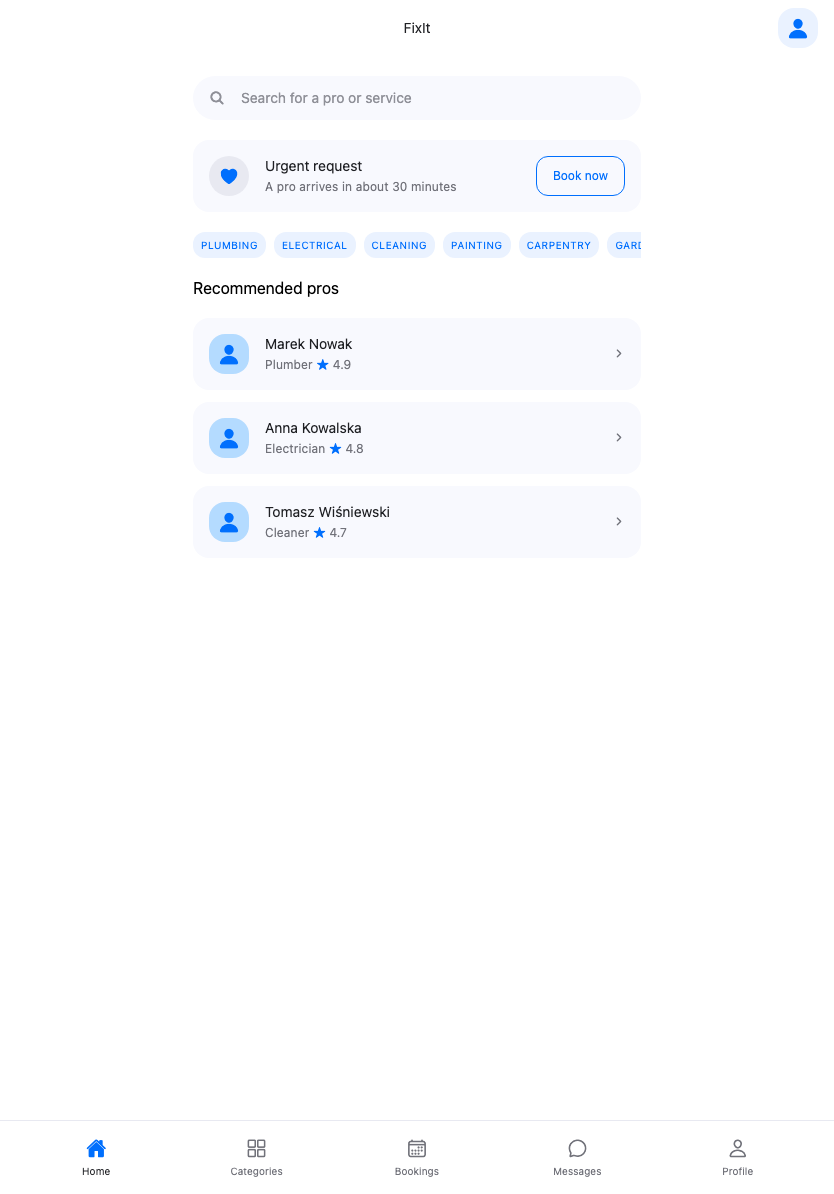
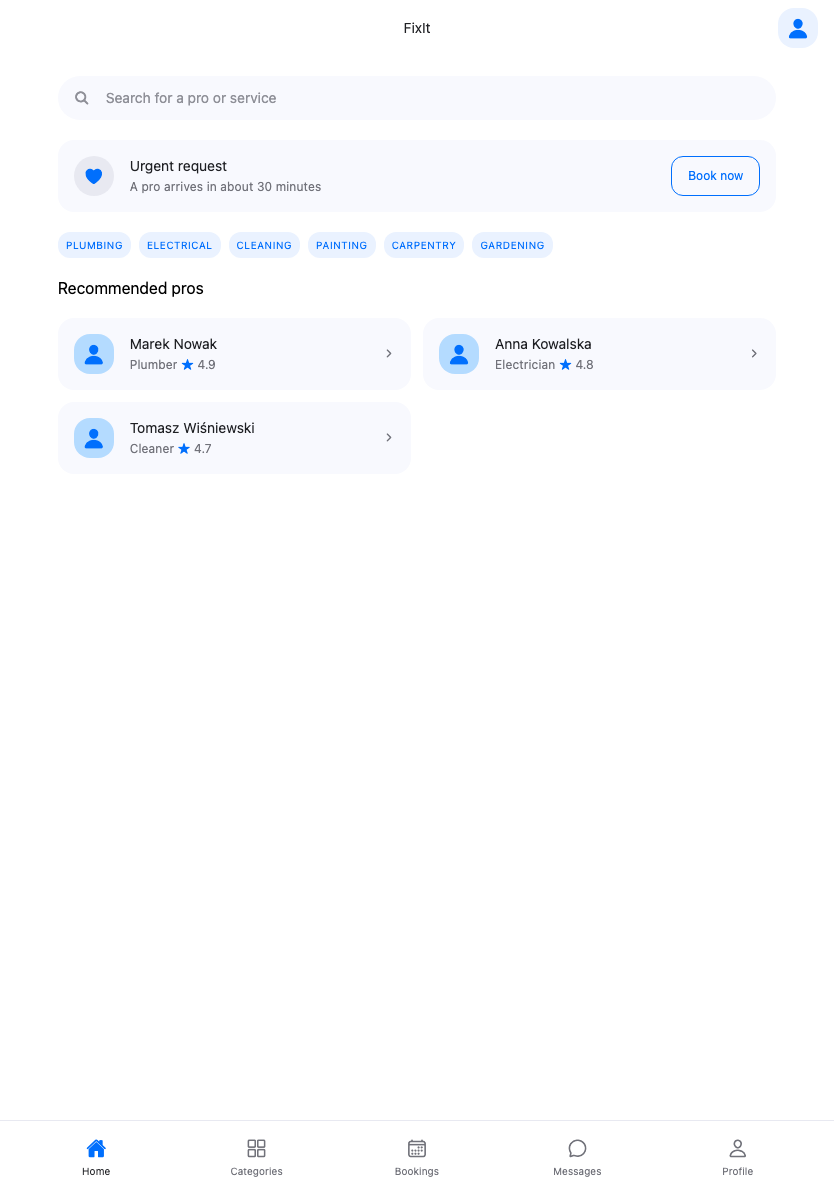
feat: reflow cards into a grid on wide screens
useResponsiveLayout centralizes the phone-vs-tablet math: past a 600dp
width breakpoint the content column widens and repeating cards
(ProCard, ListItem) reflow into a 2-column grid instead of a single
narrow column with unused margins either side.

diff --git a/src/screens/ProDetailsScreen.tsx b/src/screens/ProDetailsScreen.tsx
@@ -1,4 +1,4 @@
-import { ScrollView, StyleSheet, Text, View, useWindowDimensions } from 'react-native';
+import { ScrollView, StyleSheet, Text, View } from 'react-native';
 
 import { Avatar } from '@/components/Avatar';
 import { Button } from '@/components/Button';
@@ -8,13 +8,11 @@ import { ProCard } from '@/components/ProCard';
 import { StarRating } from '@/components/StarRating';
 import { Tag } from '@/components/Tag';
 import { pricingList, reviews } from '@/data/mockData';
+import { useResponsiveLayout } from '@/hooks/useResponsiveLayout';
 import { colors, spacing, typography } from '@/theme';
 
-const MAX_CONTENT_WIDTH = 480;
-
 export function ProDetailsScreen() {
-  const { width } = useWindowDimensions();
-  const contentWidth = Math.min(width, MAX_CONTENT_WIDTH);
+  const { contentWidth, cardWidth } = useResponsiveLayout();
 
   return (
     <View style={styles.screen}>
@@ -36,21 +34,20 @@ export function ProDetailsScreen() {
           </Text>
 
           <Text style={typography.sectionTitle}>Pricing</Text>
-          <View>
+          <View style={styles.grid}>
             {pricingList.map((item) => (
-              <ListItem key={item.id} title={item.title} subtitle={item.subtitle} />
+              <View key={item.id} style={{ width: cardWidth }}>
+                <ListItem title={item.title} subtitle={item.subtitle} />
+              </View>
             ))}
           </View>
 
           <Text style={typography.sectionTitle}>Reviews</Text>
-          <View style={styles.reviewList}>
+          <View style={styles.grid}>
             {reviews.map((review) => (
-              <ProCard
-                key={review.id}
-                name={review.name}
-                role={review.role}
-                rating={review.rating}
-              />
+              <View key={review.id} style={{ width: cardWidth }}>
+                <ProCard name={review.name} role={review.role} rating={review.rating} />
+              </View>
             ))}
           </View>
         </View>
@@ -87,7 +84,9 @@ const styles = StyleSheet.create({
   about: {
     color: colors.text,
   },
-  reviewList: {
+  grid: {
+    flexDirection: 'row',
+    flexWrap: 'wrap',
     gap: spacing.sm,
   },
   footer: {

diff --git a/src/screens/HomeScreen.tsx b/src/screens/HomeScreen.tsx
@@ -1,6 +1,6 @@
 import { Ionicons } from '@expo/vector-icons';
 import { useState } from 'react';
-import { ScrollView, StyleSheet, Text, View, useWindowDimensions } from 'react-native';
+import { ScrollView, StyleSheet, Text, View } from 'react-native';
 
 import { Avatar } from '@/components/Avatar';
 import { Button } from '@/components/Button';
@@ -9,16 +9,13 @@ import { Header } from '@/components/Header';
 import { ProCard } from '@/components/ProCard';
 import { SearchBar } from '@/components/SearchBar';
 import { categories, recommendedPros } from '@/data/mockData';
+import { useResponsiveLayout } from '@/hooks/useResponsiveLayout';
 import { colors, radii, spacing, typography } from '@/theme';
 
-/** Phones stay full-width; tablets/landscape get a centered reading column. */
-const MAX_CONTENT_WIDTH = 480;
-
 export function HomeScreen() {
-  const { width } = useWindowDimensions();
+  const { contentWidth, cardWidth } = useResponsiveLayout();
   const [query, setQuery] = useState('');
   const [selectedCategoryId, setSelectedCategoryId] = useState<string>();
-  const contentWidth = Math.min(width, MAX_CONTENT_WIDTH);
 
   return (
     <View style={styles.screen}>
@@ -53,15 +50,11 @@ export function HomeScreen() {
 
           <Text style={[typography.sectionTitle, styles.sectionTitle]}>Recommended pros</Text>
 
-          <View style={styles.proList}>
+          <View style={styles.grid}>
             {recommendedPros.map((pro) => (
-              <ProCard
-                key={pro.id}
-                name={pro.name}
-                role={pro.role}
-                rating={pro.rating}
-                onPress={() => {}}
-              />
+              <View key={pro.id} style={{ width: cardWidth }}>
+                <ProCard name={pro.name} role={pro.role} rating={pro.rating} onPress={() => {}} />
+              </View>
             ))}
           </View>
         </View>
@@ -113,7 +106,9 @@ const styles = StyleSheet.create({
   sectionTitle: {
     color: colors.text,
   },
-  proList: {
+  grid: {
+    flexDirection: 'row',
+    flexWrap: 'wrap',
     gap: spacing.sm,
   },
 });

diff --git a/src/screens/CategoriesScreen.tsx b/src/screens/CategoriesScreen.tsx
@@ -1,18 +1,16 @@
 import { useState } from 'react';
-import { ScrollView, StyleSheet, Text, View, useWindowDimensions } from 'react-native';
+import { ScrollView, StyleSheet, Text, View } from 'react-native';
 
 import { Header } from '@/components/Header';
 import { ListItem } from '@/components/ListItem';
 import { SearchBar } from '@/components/SearchBar';
 import { categories } from '@/data/mockData';
+import { useResponsiveLayout } from '@/hooks/useResponsiveLayout';
 import { colors, spacing, typography } from '@/theme';
 
-const MAX_CONTENT_WIDTH = 480;
-
 export function CategoriesScreen() {
-  const { width } = useWindowDimensions();
+  const { contentWidth, cardWidth } = useResponsiveLayout();
   const [query, setQuery] = useState('');
-  const contentWidth = Math.min(width, MAX_CONTENT_WIDTH);
 
   return (
     <View style={styles.screen}>
@@ -24,15 +22,11 @@ export function CategoriesScreen() {
 
           <Text style={[typography.sectionTitle, styles.sectionTitle]}>All categories</Text>
 
-          <View>
+          <View style={styles.grid}>
             {categories.map((category) => (
-              <ListItem
-                key={category.id}
-                title={category.label}
-                leftIcon="heart"
-                showChevron
-                onPress={() => {}}
-              />
+              <View key={category.id} style={{ width: cardWidth }}>
+                <ListItem title={category.label} leftIcon="heart" showChevron onPress={() => {}} />
+              </View>
             ))}
           </View>
         </View>
@@ -57,5 +51,10 @@ const styles = StyleSheet.create({
   },
   sectionTitle: {
     color: colors.text,
+  },
+  grid: {
+    flexDirection: 'row',
+    flexWrap: 'wrap',
+    gap: spacing.sm,
   },
 });

diff --git a/src/hooks/useResponsiveLayout.ts b/src/hooks/useResponsiveLayout.ts
@@ -1,0 +1,37 @@
+import { useWindowDimensions } from 'react-native';
+
+import { spacing } from '@/theme';
+
+/**
+ * Width-based, not device-based: a rotated phone crosses this the same as a
+ * small tablet, and both get the same extra breathing room.
+ */
+const TABLET_BREAKPOINT = 600;
+const MAX_CONTENT_WIDTH = 960;
+
+export type ResponsiveLayoutOptions = {
+  /** Horizontal padding the caller applies around its content column. */
+  horizontalPadding?: number;
+  /** Gap between grid cards when `columns > 1`. */
+  gap?: number;
+};
+
+/**
+ * Centralizes the phone-vs-tablet layout math so every screen grids its
+ * repeating cards (ProCard, ListItem, ...) the same way instead of just
+ * capping width and leaving the extra space empty.
+ */
+export function useResponsiveLayout({
+  horizontalPadding = spacing.md,
+  gap = spacing.sm,
+}: ResponsiveLayoutOptions = {}) {
+  const { width } = useWindowDimensions();
+  const isTablet = width >= TABLET_BREAKPOINT;
+  const columns = isTablet ? 2 : 1;
+
+  const contentWidth = isTablet ? Math.min(width * 0.9, MAX_CONTENT_WIDTH) : width;
+  const innerWidth = contentWidth - horizontalPadding * 2;
+  const cardWidth = columns > 1 ? (innerWidth - gap * (columns - 1)) / columns : innerWidth;
+
+  return { isTablet, columns, contentWidth, cardWidth };
+}
